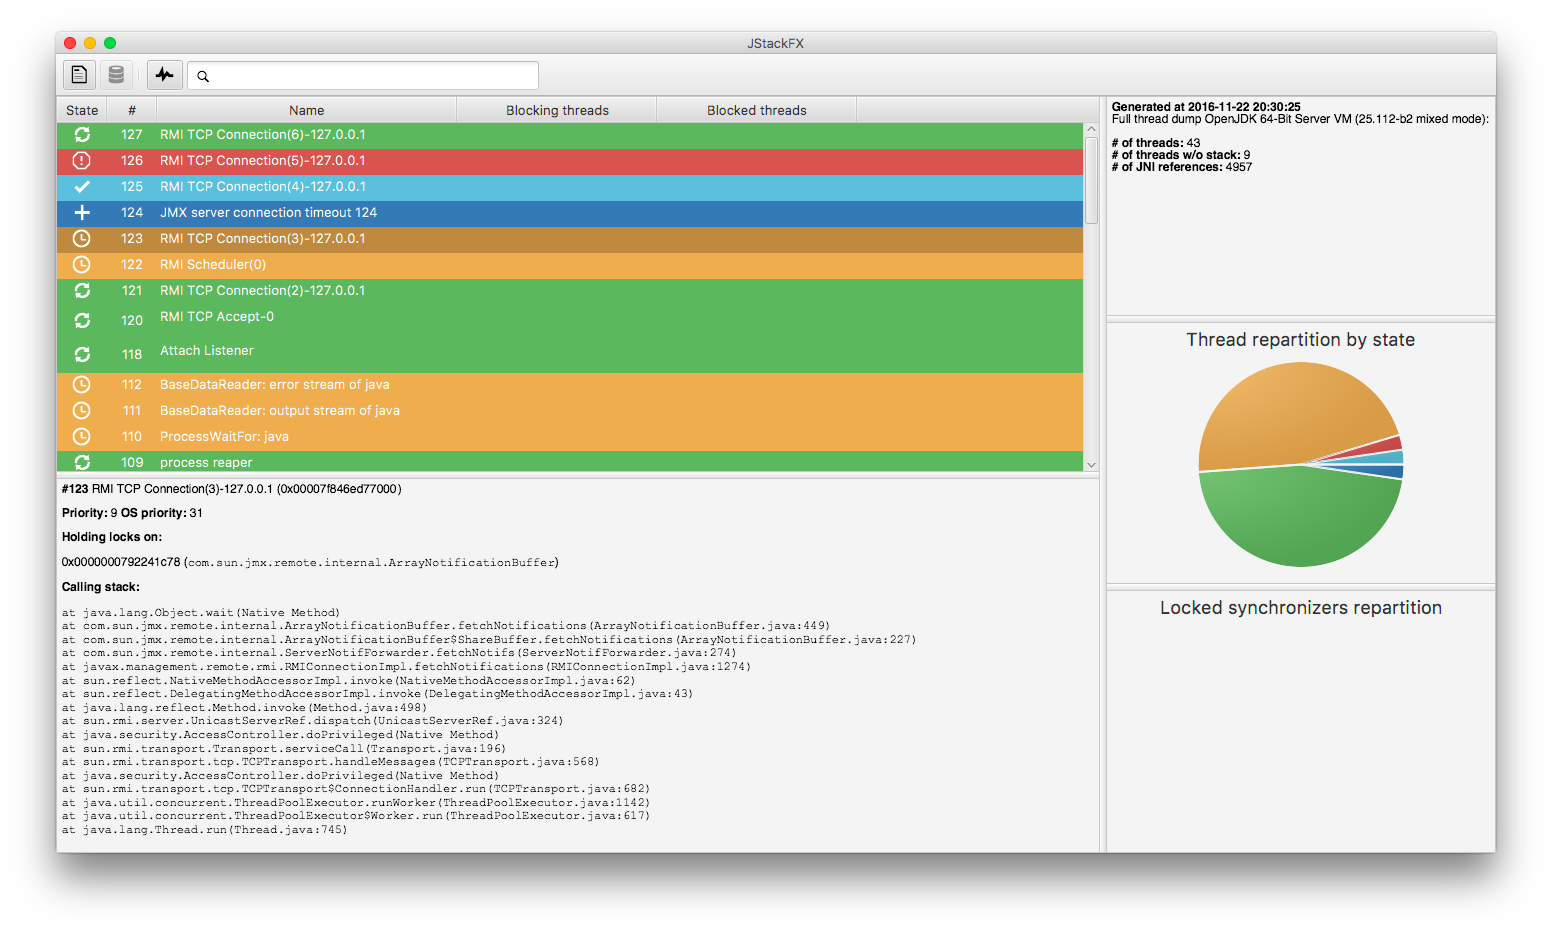
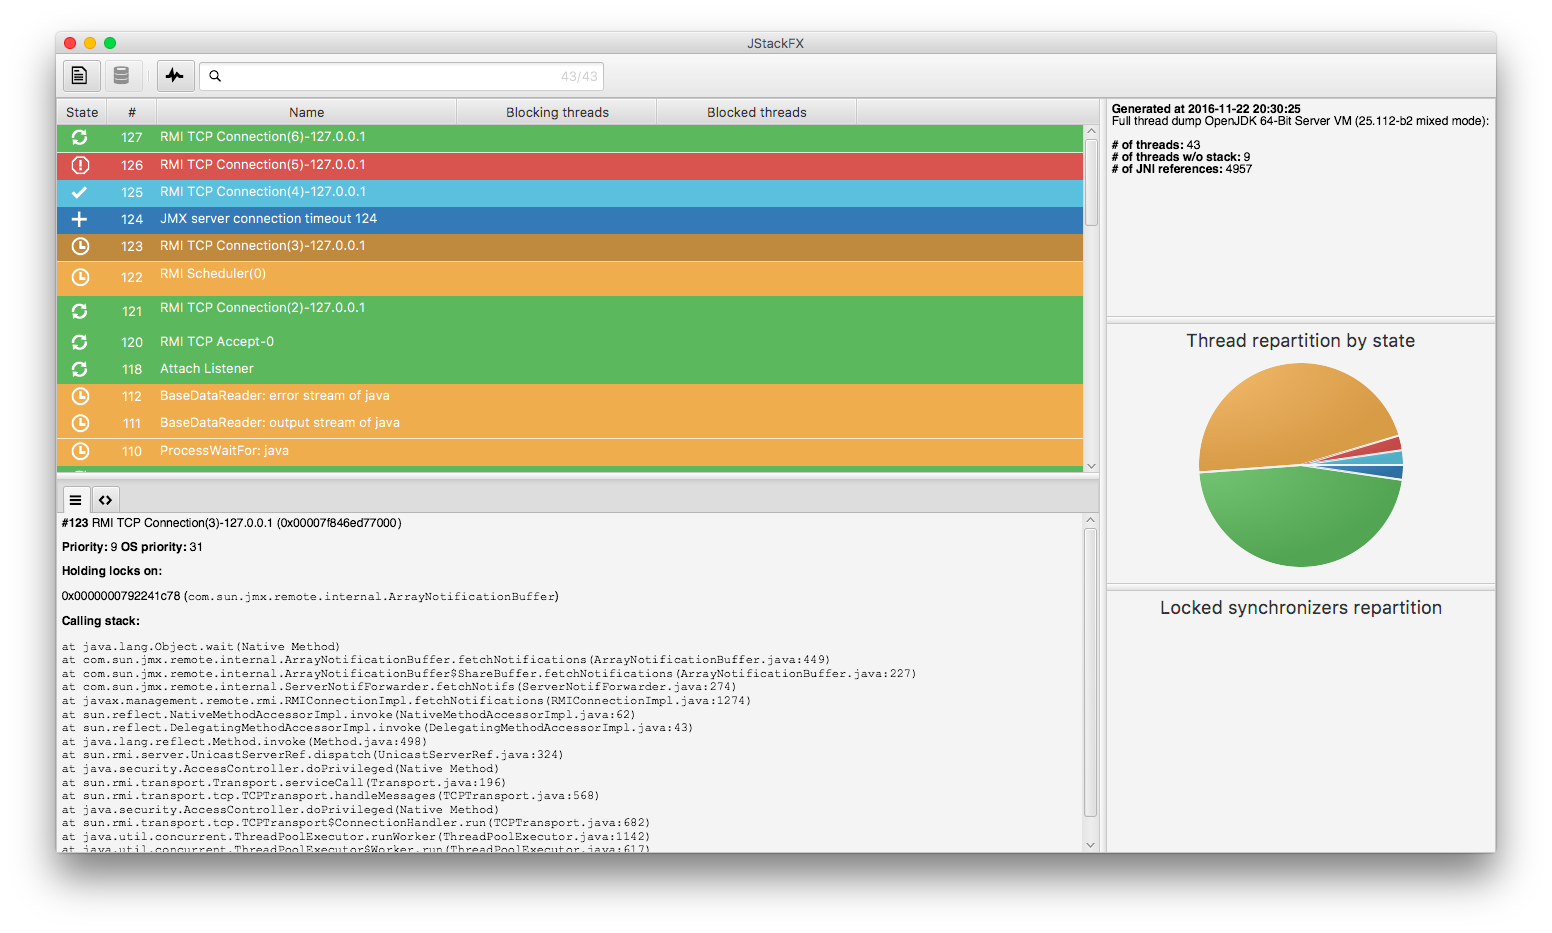
Prepare release 1.2

Changed region(s): [[0.0309, 0.0622, 0.9588, 0.9014], [0.7423, 0.3419, 0.9278, 0.373], [0.8351, 0.4662, 0.8969, 0.5284]]

diff --git a/src/main/resources/io/twasyl/jstackfx/css/default.css b/src/main/resources/io/twasyl/jstackfx/css/default.css
@@ -49,5 +49,14 @@
 
 /** Search field */
 .search-field { -fx-alignment: BASELINE_LEFT; }
-.search-field .text-field { -fx-padding: 6px 7px 6px 30px; }
+.search-field .text-field { -fx-padding: 6px 60px 6px 30px; }
 .search-field .search { -fx-translate-x: 10px; }
+.search-field .number { -fx-fill: lightgray; }
+
+/** Thread element nodes */
+#threadElementDetails { -fx-padding: 5px ; }
+
+#threadElementSource { -fx-font-family: 'Courier New'; -fx-padding: 5px; }
+#threadElementSource,
+#threadElementSource .content,
+#threadElementSource .scroll-pane { -fx-background-color: transparent; }

diff --git a/src/test/java/io/twasyl/jstackfx/factory/ThreadElementFactoryTest.java b/src/test/java/io/twasyl/jstackfx/factory/ThreadElementFactoryTest.java
@@ -327,4 +327,33 @@ public class ThreadElementFactoryTest {
         final Set<ThreadReference> parkingReasons = ThreadElementFactory.extractParkingToWaitFor(lines);
         assertEquals(0, parkingReasons.size());
     }
+
+    @Test
+    public void buildSource() {
+        final List<String> lines = new ArrayList<>();
+
+        lines.add("\"DEADLOCK_TEST-2\" #3 daemon prio=6 tid=0x0000000006858800 nid=0x17b8 waiting for monitor entry [0x000000000815f000]");
+        lines.add("   java.lang.Thread.State: BLOCKED (on object monitor)");
+        lines.add("\tat io.twasyl.jstackfx.examples.ThreadDeadLockState$DeadlockThread.goMonitorDeadlock(ThreadDeadLockState.java:197)");
+        lines.add("\t- waiting to lock <0x00000007d58f5e78> (a io.twasyl.jstackfx.examples.ThreadDeadLockState$Monitor)");
+        lines.add("\tat io.twasyl.jstackfx.examples.ThreadDeadLockState$DeadlockThread.monitorOurLock(ThreadDeadLockState.java:182)");
+        lines.add("\t- locked <0x00000007d58f5e60> (a io.twasyl.jstackfx.examples.ThreadDeadLockState$Monitor)");
+        lines.add("\tat io.twasyl.jstackfx.examples.ThreadDeadLockState$DeadlockThread.run(ThreadDeadLockState.java:135)");
+        lines.add("");
+        lines.add("   Locked ownable synchronizers:");
+        lines.add("\t- <0x00000000e598a610> (a java.util.concurrent.ThreadPoolExecutor$Worker)");
+
+        final String expected = "\"DEADLOCK_TEST-2\" #3 daemon prio=6 tid=0x0000000006858800 nid=0x17b8 waiting for monitor entry [0x000000000815f000]\n" +
+                "   java.lang.Thread.State: BLOCKED (on object monitor)\n" +
+                "\tat io.twasyl.jstackfx.examples.ThreadDeadLockState$DeadlockThread.goMonitorDeadlock(ThreadDeadLockState.java:197)\n" +
+                "\t- waiting to lock <0x00000007d58f5e78> (a io.twasyl.jstackfx.examples.ThreadDeadLockState$Monitor)\n" +
+                "\tat io.twasyl.jstackfx.examples.ThreadDeadLockState$DeadlockThread.monitorOurLock(ThreadDeadLockState.java:182)\n" +
+                "\t- locked <0x00000007d58f5e60> (a io.twasyl.jstackfx.examples.ThreadDeadLockState$Monitor)\n" +
+                "\tat io.twasyl.jstackfx.examples.ThreadDeadLockState$DeadlockThread.run(ThreadDeadLockState.java:135)\n" +
+                "\n" +
+                "   Locked ownable synchronizers:\n" +
+                "\t- <0x00000000e598a610> (a java.util.concurrent.ThreadPoolExecutor$Worker)";
+
+        assertEquals(expected, ThreadElementFactory.buildSource(lines));
+    }
 }

diff --git a/src/main/java/io/twasyl/jstackfx/ui/SearchField.java b/src/main/java/io/twasyl/jstackfx/ui/SearchField.java
@@ -8,9 +8,10 @@ import io.twasyl.jstackfx.search.exceptions.UnparsableQueryException;
 import javafx.beans.property.*;
 import javafx.collections.FXCollections;
 import javafx.collections.ObservableList;
-import javafx.scene.control.SplitMenuButton;
 import javafx.scene.control.TextField;
 import javafx.scene.layout.StackPane;
+import javafx.scene.text.Text;
+import javafx.scene.text.TextAlignment;
 
 import java.util.Collection;
 import java.util.Objects;
@@ -35,6 +36,7 @@ public class SearchField<T> extends StackPane {
 
     protected TextField textField = new TextField();
     protected OctIconView icon = new OctIconView(OctIcon.SEARCH);
+    protected Text numberOfResults = new Text();
 
     protected Query<T> query;
     protected final DoubleProperty prefColumnCount = new SimpleDoubleProperty();
@@ -48,9 +50,10 @@ public class SearchField<T> extends StackPane {
 
         this.prefColumnCount.bindBidirectional(this.textField.prefColumnCountProperty());
 
-        this.getChildren().addAll(this.textField, this.icon);
+        this.getChildren().addAll(this.textField, this.icon, this.numberOfResults);
 
         this.initializeKeyPressed();
+        this.initializeNumberOfResults();
     }
 
     protected void initializeKeyPressed() {
@@ -84,6 +87,14 @@ public class SearchField<T> extends StackPane {
                 }
             }
         });
+    }
+
+    protected void initializeNumberOfResults() {
+        this.numberOfResults.getStyleClass().add("number");
+        this.numberOfResults.setWrappingWidth(50);
+        this.numberOfResults.setTextAlignment(TextAlignment.RIGHT);
+        this.numberOfResults.translateXProperty().bind(this.textField.widthProperty().subtract(this.numberOfResults.wrappingWidthProperty()).subtract(5));
+        this.numberOfResults.textProperty().bind(this.resultsProperty().sizeProperty().asString().concat("/").concat(this.dataSetProperty().sizeProperty().asString()));
     }
 
     public DoubleProperty prefColumnCountProperty() {

diff --git a/src/main/java/io/twasyl/jstackfx/beans/ThreadElement.java b/src/main/java/io/twasyl/jstackfx/beans/ThreadElement.java
@@ -6,12 +6,10 @@ import javafx.collections.ObservableSet;
 import javafx.scene.control.ContextMenu;
 import javafx.scene.control.MenuItem;
 import javafx.scene.input.Clipboard;
-import javafx.scene.input.ClipboardContent;
 import javafx.scene.input.DataFormat;
 import javafx.scene.text.Font;
 import javafx.scene.text.FontWeight;
 import javafx.scene.text.Text;
-import javafx.scene.text.TextFlow;
 
 import java.util.*;
 
@@ -39,6 +37,7 @@ public class ThreadElement {
     protected final SetProperty<ThreadReference> holdingLocks = new SimpleSetProperty<>(FXCollections.observableSet());
     protected final SetProperty<ThreadReference> waitingToLock = new SimpleSetProperty<>(FXCollections.observableSet());
     protected final SetProperty<ThreadReference> parkingReasons = new SimpleSetProperty<>(FXCollections.observableSet());
+    protected final StringProperty source = new SimpleStringProperty();
 
     public ObjectProperty<Dump> dumpProperty() {
         return dump;
@@ -182,6 +181,18 @@ public class ThreadElement {
 
     public void setParkingReasons(ObservableSet<ThreadReference> parkingReasons) {
         this.parkingReasons.set(parkingReasons);
+    }
+
+    public String getSource() {
+        return source.get();
+    }
+
+    public StringProperty sourceProperty() {
+        return source;
+    }
+
+    public void setSource(String source) {
+        this.source.set(source);
     }
 
     /**

diff --git a/src/main/java/io/twasyl/jstackfx/controllers/JStackFXController.java b/src/main/java/io/twasyl/jstackfx/controllers/JStackFXController.java
@@ -45,6 +45,8 @@ public class JStackFXController implements Initializable {
     @FXML
     private TextFlow threadElementDetails;
     @FXML
+    private TextArea threadElementSource;
+    @FXML
     private PieChart threadsRepartition;
     @FXML
     private PieChart mostLockedSynchronizers;
@@ -138,6 +140,7 @@ public class JStackFXController implements Initializable {
 
     public void updateUI(final Dump dump) {
         if (dump != null) {
+            this.clearUI();
             this.updateSearchField(dump);
             this.updateThreadInformationsTable(dump);
             this.updateDumpInformations(dump);
@@ -155,6 +158,11 @@ public class JStackFXController implements Initializable {
             ((InMemoryDump) dump).getLines().forEach(output::println);
             output.flush();
         }
+    }
+
+    protected void clearUI() {
+        this.threadElementDetails.getChildren().clear();
+        this.threadElementSource.setText("");
     }
 
     protected void updateSearchField(final Dump dump) {
@@ -266,6 +274,7 @@ public class JStackFXController implements Initializable {
             this.threadElementDetails.getChildren().clear();
             if (newItem != null) {
                 this.threadElementDetails.getChildren().addAll(newItem.asText());
+                this.threadElementSource.setText(newItem.getSource());
             }
         });
 

diff --git a/src/main/java/io/twasyl/jstackfx/factory/ThreadElementFactory.java b/src/main/java/io/twasyl/jstackfx/factory/ThreadElementFactory.java
@@ -11,7 +11,7 @@ import java.util.regex.Pattern;
  * This class is responsible for creating {@link ThreadElement thread elements} properly.
  *
  * @author Thierry Wasylczenko
- * @since SlideshowFX 1.0
+ * @since JStackFX 1.0
  */
 public class ThreadElementFactory {
     protected static final Pattern LINE_STARTING_WITH_DASH = Pattern.compile("^\\s+-.+$");
@@ -30,6 +30,8 @@ public class ThreadElementFactory {
 
     public static ThreadElement build(final List<String> lines) {
         final ThreadElement element = new ThreadElement();
+
+        element.setSource(buildSource(lines));
 
         String line = lines.get(0);
         element.setName(extractNameFrom(line));
@@ -50,6 +52,12 @@ public class ThreadElementFactory {
         element.getParkingReasons().addAll(extractParkingToWaitFor(lines));
 
         return element;
+    }
+
+    protected static String buildSource(final List<String> lines) {
+        final StringJoiner source = new StringJoiner("\n");
+        lines.forEach(source::add);
+        return source.toString();
     }
 
     protected static String extractNameFrom(final String line) {

diff --git a/src/main/java/io/twasyl/jstackfx/ui/cells/ThreadElementRow.java b/src/main/java/io/twasyl/jstackfx/ui/cells/ThreadElementRow.java
@@ -12,7 +12,7 @@ import java.util.Map;
  * Class representing a {@link ThreadElement} within a {@link javafx.scene.control.TableView} of elements.
  *
  * @author Thierry Wasylczenko
- * @since SlideshowFX 1.0
+ * @since JStackFX 1.0
  */
 public class ThreadElementRow extends TableRow<ThreadElement> {
 
@@ -26,6 +26,7 @@ public class ThreadElementRow extends TableRow<ThreadElement> {
         PSEUDO_CLASS_STATES.put(Thread.State.BLOCKED, PseudoClassState.getPseudoClass("blocked"));
         PSEUDO_CLASS_STATES.put(Thread.State.TERMINATED, PseudoClassState.getPseudoClass("terminated"));
     }
+
     @Override
     protected void updateItem(ThreadElement item, boolean empty) {
         super.updateItem(item, empty);

diff --git a/README.md b/README.md
@@ -39,11 +39,12 @@ java -jar jstackfx-<version>.jar --pid=<pid of the process to dump>
 
 **Warning:** if both `--pid` and `--file` parameters are used, `--file` is ignored.
 
-# Screenshot
+# Screenshot````
 
 ![Screenshot of JStackFX](src/site/screenshots/JStackFX_01.png)
 ![Screenshot of JStackFX](src/site/screenshots/JStackFX_02.png)
 ![Screenshot of JStackFX](src/site/screenshots/JStackFX_03.png)
+![Screenshot of JStackFX](src/site/screenshots/JStackFX_04.png)
 
 # Usage
 
@@ -63,9 +64,17 @@ fieldName comparator value operand fieldName comparator value ...
 
 * List all RUNNABLE threads:`state = runnable`
 * Display threads having number 10 or 20: `number = 10 or number = 20`
-* Display threads ha ving number 10 or thread having number 20 and is in state BLOCKED: `number = 10 or number = 20 and state = blocked`
+* Display threads having number 10 or thread having number 20 and is in state BLOCKED: `number = 10 or number = 20 and state = blocked`
 
-# Changes
+# Release notes
+
+## Version 1.2
+
+**New and noteworthy:**
+
+* Display the number of results in the search bar
+* Allow to display thread elements' source from the dump file
+* UX improvements
 
 ## Version 1.1
 
